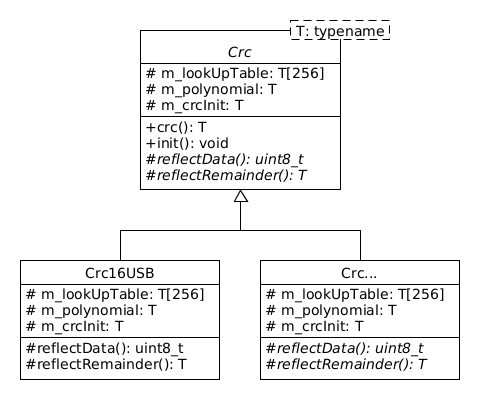
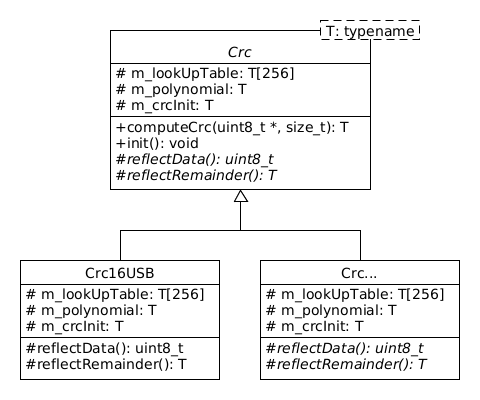
app-architecture. Implement class diagram

diff --git a/tests/crc16usbtest.cpp b/tests/crc16usbtest.cpp
@@ -1,0 +1,44 @@
+#include <crc/crc16usb.h>
+
+#include <memory>
+
+#include <gtest/gtest.h>
+
+class Crc16UsbTest : public ::testing::Test
+{
+public:
+    virtual void SetUp()
+    {
+        m_crc = std::make_unique<Crc16Usb>();
+    }
+
+    virtual void TearDown()
+    {}
+
+protected:
+
+    std::unique_ptr<Crc<uint16_t>> m_crc;
+
+    const uint8_t m_checkBuffer01[9] = {0x31, 0x32, 0x33, 0x34, 0x35,
+                                  0x36, 0x37, 0x38, 0x39};
+    const uint8_t m_checkBuffer02[9] = {0x41, 0x42, 0x43, 0x44, 0x45,
+                                  0x46, 0x47, 0x48, 0x49};
+    const uint16_t m_checkBuffer01Crc = 0xB4C8;
+    const uint16_t m_checkBuffer02Crc = 0x51AE;
+};
+
+TEST_F(Crc16UsbTest, crc01)
+{
+//    EXPECT_EQ(m_crc->computeCrc(m_checkBuffer01, sizeof(m_checkBuffer01)), m_checkBuffer01Crc);
+}
+
+TEST_F(Crc16UsbTest, crc02)
+{
+//    EXPECT_EQ(m_crc->computeCrc(m_checkBuffer02, sizeof(m_checkBuffer02)), m_checkBuffer02Crc);
+}
+
+int main(int argc, char **argv)
+{
+    ::testing::InitGoogleTest(&argc, argv);
+    return RUN_ALL_TESTS();
+}

diff --git a/tests/crctest.cpp b/tests/crctest.cpp
@@ -1,6 +1,6 @@
 #include <gtest/gtest.h>
 
-class NamedPipeTest : public ::testing::Test
+class CrcTest : public ::testing::Test
 {
 public:
     virtual void SetUp()
@@ -10,7 +10,7 @@ public:
     {}
 };
 
-TEST_F(NamedPipeTest, createfifo)
+TEST_F(CrcTest, true)
 {
     EXPECT_TRUE(true);
 }

diff --git a/include/crc/crc.h b/include/crc/crc.h
@@ -1,4 +1,18 @@
 #ifndef CRC_CRC_H
 #define CRC_CRC_H
 
+#include <cstdint>
+
+template<typename T>
+class Crc
+{
+public:
+    T computeCrc(const uint8_t *buffer, const std::size_t size)
+    {
+        (void )buffer;
+        (void)size;
+        return 0;
+    }
+};
+
 #endif //CRC_CRC_H

diff --git a/include/crc/crc16usb.h b/include/crc/crc16usb.h
@@ -1,0 +1,12 @@
+#ifndef CRC_CRC16USB_H
+#define CRC_CRC16USB_H
+
+#include <crc/crc.h>
+
+class Crc16Usb : public Crc<uint16_t>
+{
+
+};
+
+
+#endif //CRC_CRC16USB_H

diff --git a/src/crc16usb.cpp b/src/crc16usb.cpp
@@ -1,0 +1,2 @@
+#include "crc.h"
+#include "crc16usb.h"
